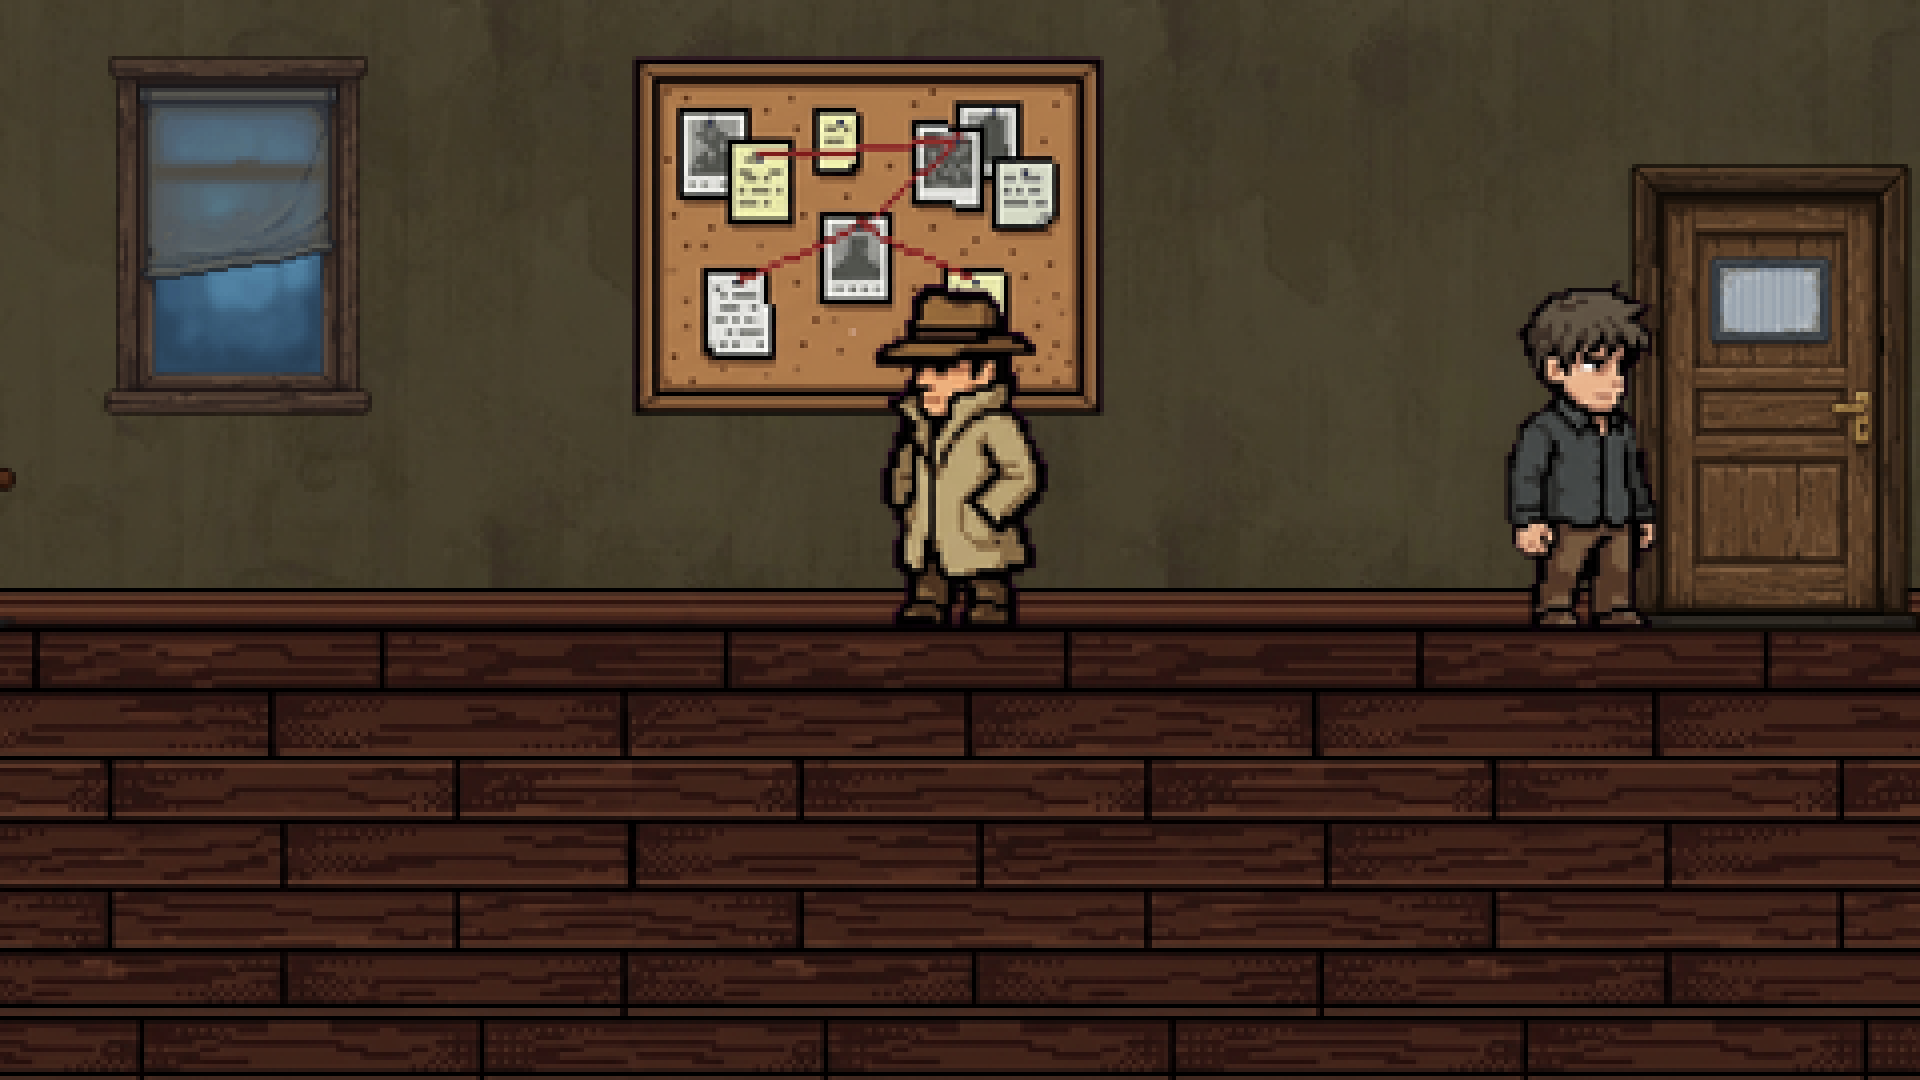
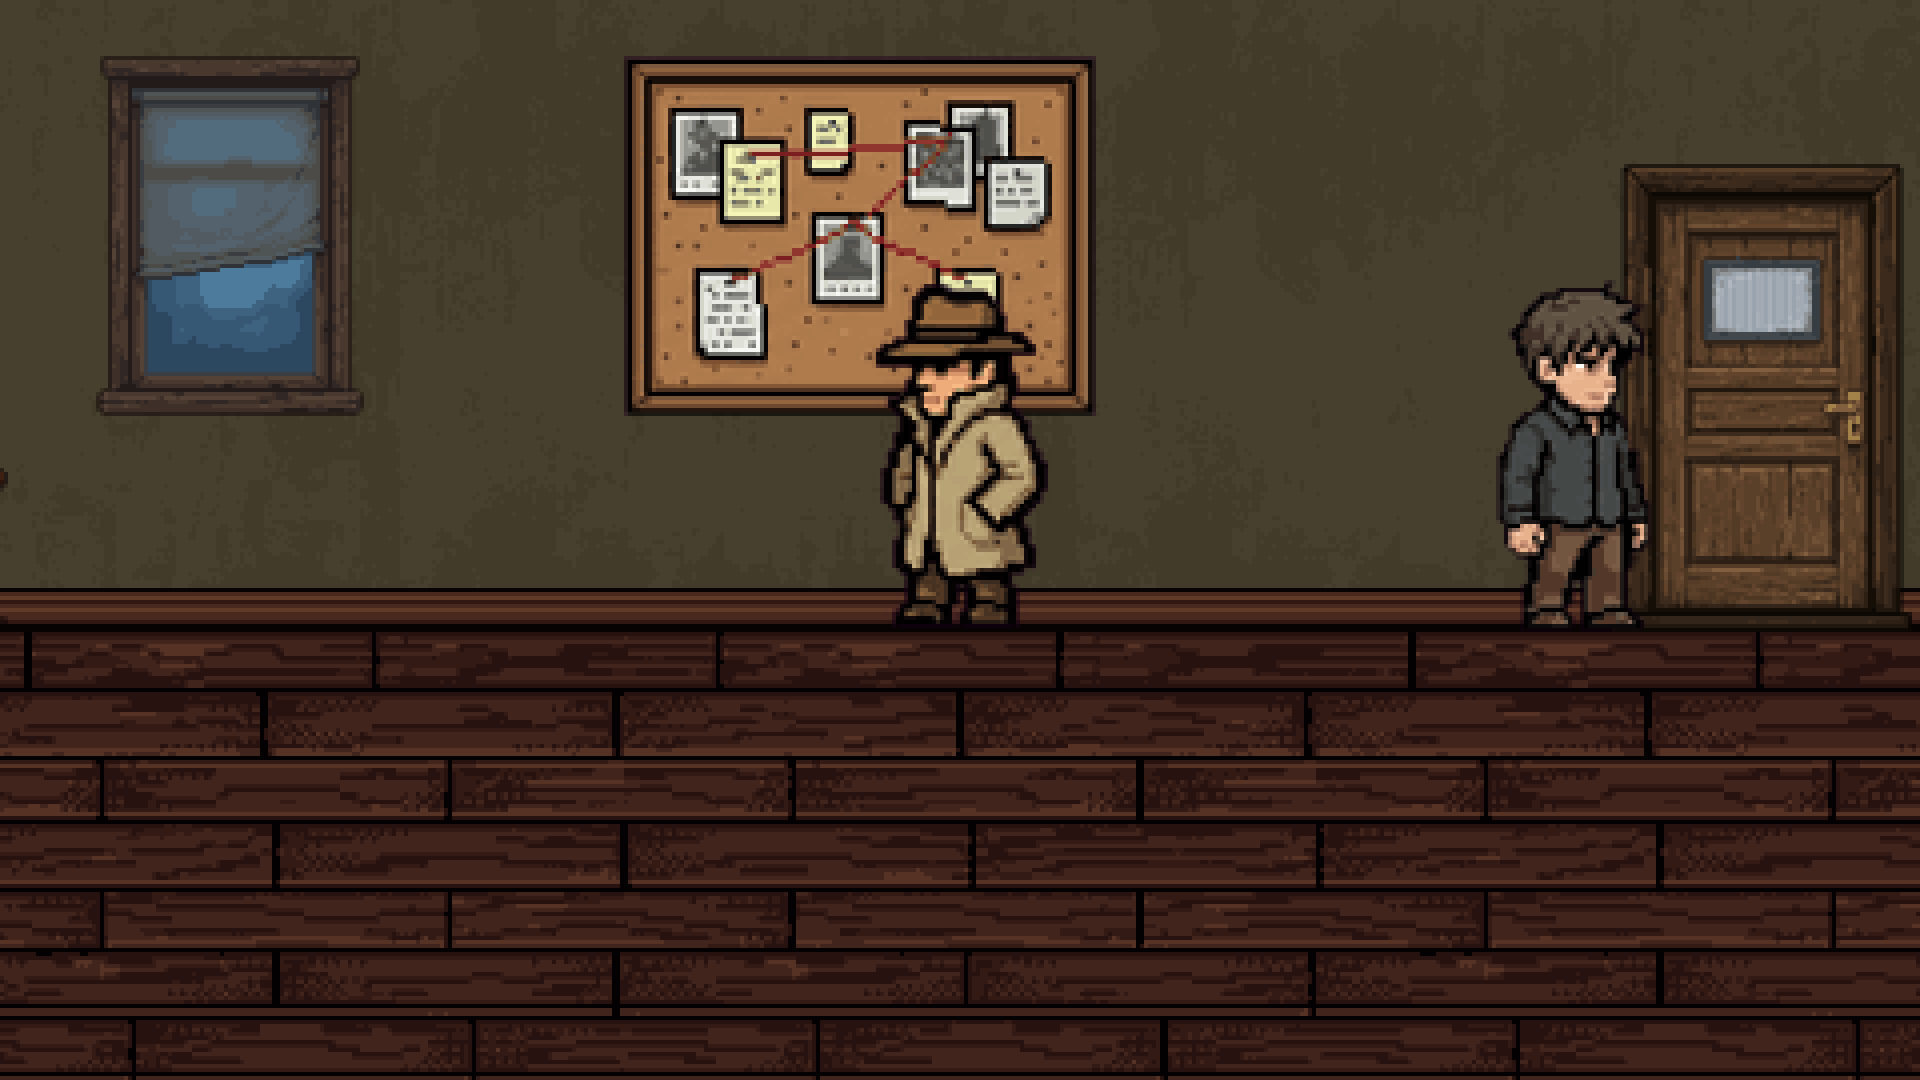
1단계 보완: 캐릭터 팔레트 통일, Phaser 4 표기, gitignore, 화면 구도 규칙

diff --git a/tools/normalize-assets.ts b/tools/normalize-assets.ts
@@ -8,8 +8,9 @@ const OUT = 'public/assets';
 const spec = JSON.parse(readFileSync('art/asset-spec.json', 'utf8'));
 const manifest: Record<string, { w: number; h: number }> = {};
 
-async function save(img: ReturnType<typeof sharp>, out: string, colours: number, id: string) {
-  const { data, info } = await img.png({ palette: true, colours, dither: 0, effort: 10 }).toBuffer({ resolveWithObject: true });
+async function save(img: ReturnType<typeof sharp>, out: string, colours: number, id: string, quality = 50) {
+  // colours=256: 이미 양자화된 이미지를 색 변경 없이 팔레트 PNG로만 저장
+  const { data, info } = await img.png({ palette: true, colours, quality, dither: 0, effort: 10 }).toBuffer({ resolveWithObject: true });
   writeFileSync(join(OUT, out), data);
   manifest[id] = { w: info.width, h: info.height };
 }
@@ -23,11 +24,22 @@ for (const s of spec.sprites) {
   await save(sharp(buf).resize({ height: s.height, kernel: 'lanczos3' }), `${s.id}.png`, spec.colours, s.id);
 }
 
+// 시퀀스: 같은 캐릭터의 모든 프레임을 가로로 이어 붙여 한 번에 양자화 → 프레임별로 다시 자름 (프레임 간 팔레트 동일)
 for (const q of spec.sequences) {
-  for (const f of q.frames) {
+  const frames = await Promise.all(q.frames.map(async (f: string) => {
     const meta = await sharp(join(SRC, q.src, `${f}.png`)).metadata();
     const w = Math.round((meta.width! * q.canvasHeight) / meta.height!);
-    await save(sharp(join(SRC, q.src, `${f}.png`)).resize(w, q.canvasHeight, { kernel: 'lanczos3' }), `${q.id}_${f}.png`, q.colours, `${q.id}_${f}`);
+    return { f, w, buf: await sharp(join(SRC, q.src, `${f}.png`)).resize(w, q.canvasHeight, { kernel: 'lanczos3' }).png().toBuffer() };
+  }));
+  const total = frames.reduce((a, x) => a + x.w, 0);
+  let left = 0;
+  const strip = await sharp({ create: { width: total, height: q.canvasHeight, channels: 4, background: { r: 0, g: 0, b: 0, alpha: 0 } } })
+    .composite(frames.map((x) => { const c = { input: x.buf, left, top: 0 }; left += x.w; return c; }))
+    .png({ palette: true, colours: q.colours, quality: 50, dither: 0, effort: 10 }).toBuffer();
+  left = 0;
+  for (const x of frames) {
+    await save(sharp(strip).extract({ left, top: 0, width: x.w, height: q.canvasHeight }), `${q.id}_${x.f}.png`, 256, `${q.id}_${x.f}`, 100);
+    left += x.w;
   }
 }
 

diff --git a/tests/palette.test.ts b/tests/palette.test.ts
@@ -1,0 +1,20 @@
+import { describe, expect, it } from 'vitest';
+import sharp from 'sharp';
+import spec from '../art/asset-spec.json';
+
+async function colours(file: string) {
+  const { data } = await sharp(file).ensureAlpha().raw().toBuffer({ resolveWithObject: true });
+  const set = new Set<number>();
+  for (let i = 0; i < data.length; i += 4) if (data[i + 3] === 0) set.add(0); else set.add(((data[i] << 24) | (data[i + 1] << 16) | (data[i + 2] << 8) | data[i + 3]) >>> 0); // 투명 픽셀 RGB 는 0 으로 정규화
+  return set;
+}
+
+describe('캐릭터 프레임 팔레트 통일', () => {
+  for (const q of spec.sequences) {
+    it(`${q.id}: 모든 프레임 색 합집합 ≤ ${q.colours}`, async () => {
+      const union = new Set<number>();
+      for (const f of q.frames) for (const c of await colours(`public/assets/${q.id}_${f}.png`)) union.add(c);
+      expect(union.size).toBeLessThanOrEqual(q.colours);
+    });
+  }
+});

diff --git a/docs/이전계획.md b/docs/이전계획.md
@@ -15,7 +15,7 @@
 | 탐색 화면 그림체 | craft_on의 픽셀 스프라이트(플레이어, 박은호, 창문, 책상, 바닥, 증거보드) |
 | 클로즈업·초상 그림체 | craft_on의 반실사 일러스트(초상 6종, 모자·캘린더·신문·편지 클로즈업, 병원 원경) |
 | 보정판에 없는 요소 | **전부 삭제**. 필요해지면 그때 다시 추가 |
-| 기술 스택 | Vite + TypeScript + Phaser 3 (탐색) + HTML/CSS 오버레이 (대화·수첩·퍼즐). Windows exe는 Tauri 2로 선택 패키징 |
+| 기술 스택 | Vite + TypeScript + Phaser 4 (탐색) + HTML/CSS 오버레이 (대화·수첩·퍼즐). Windows exe는 Tauri 2로 선택 패키징 |
 | 제출 형태 | 웹(HTML/JS) zip — `index.html` 더블클릭 실행. 6장 |
 | 저장소 | https://github.com/bangsiru0606/pubg |
 | 제출 | `docs/제출가이드.md` 기준. 레포 링크 + GitHub Release v1.0 zip |
@@ -67,6 +67,7 @@
 | 캐릭터 높이 | 약 **90px** (화면 높이의 1/3, craft_on의 카메라 구성과 동일한 체감) |
 | 배경 | 층 복도는 높이 270px, 가로는 길이에 맞춰 자유 |
 | 피벗 | 캐릭터·문·가구는 **하단 중앙**. 바닥선 y 하나를 모든 구역이 공유 |
+| 화면 구도 | 바닥선 **y=158 고정**. 바닥선 아래 영역(약 112px)은 대화창·프롬프트 UI 자리로 쓴다 |
 | 클로즈업·초상·컷신 | 픽셀 격자 대상 아님. HTML 오버레이에서 원본 해상도 그대로, 부드럽게 표시 |
 
 ### 2.2 에셋 정규화 파이프라인

diff --git a/docs/개발_시작_프롬프트.md b/docs/개발_시작_프롬프트.md
@@ -25,7 +25,7 @@
 
 ## 이번 작업: 7장의 "1단계. 뼈대 + 해상도 검증"만 한다
 1. 프로젝트 뼈대
-   - Vite + TypeScript(strict) + Phaser 3 + Vitest + Playwright
+   - Vite + TypeScript(strict) + Phaser 4 + Vitest + Playwright
    - 폴더 구조는 이전계획 5장대로. src/core는 비어 있어도 폴더와 index만 만든다
    - Phaser: 논리 해상도 480×270, pixelArt: true, roundPixels: true,
      정수 배율로만 확대하고 남는 영역은 레터박스, loader.imageLoadType: 'HTMLImageElement'
